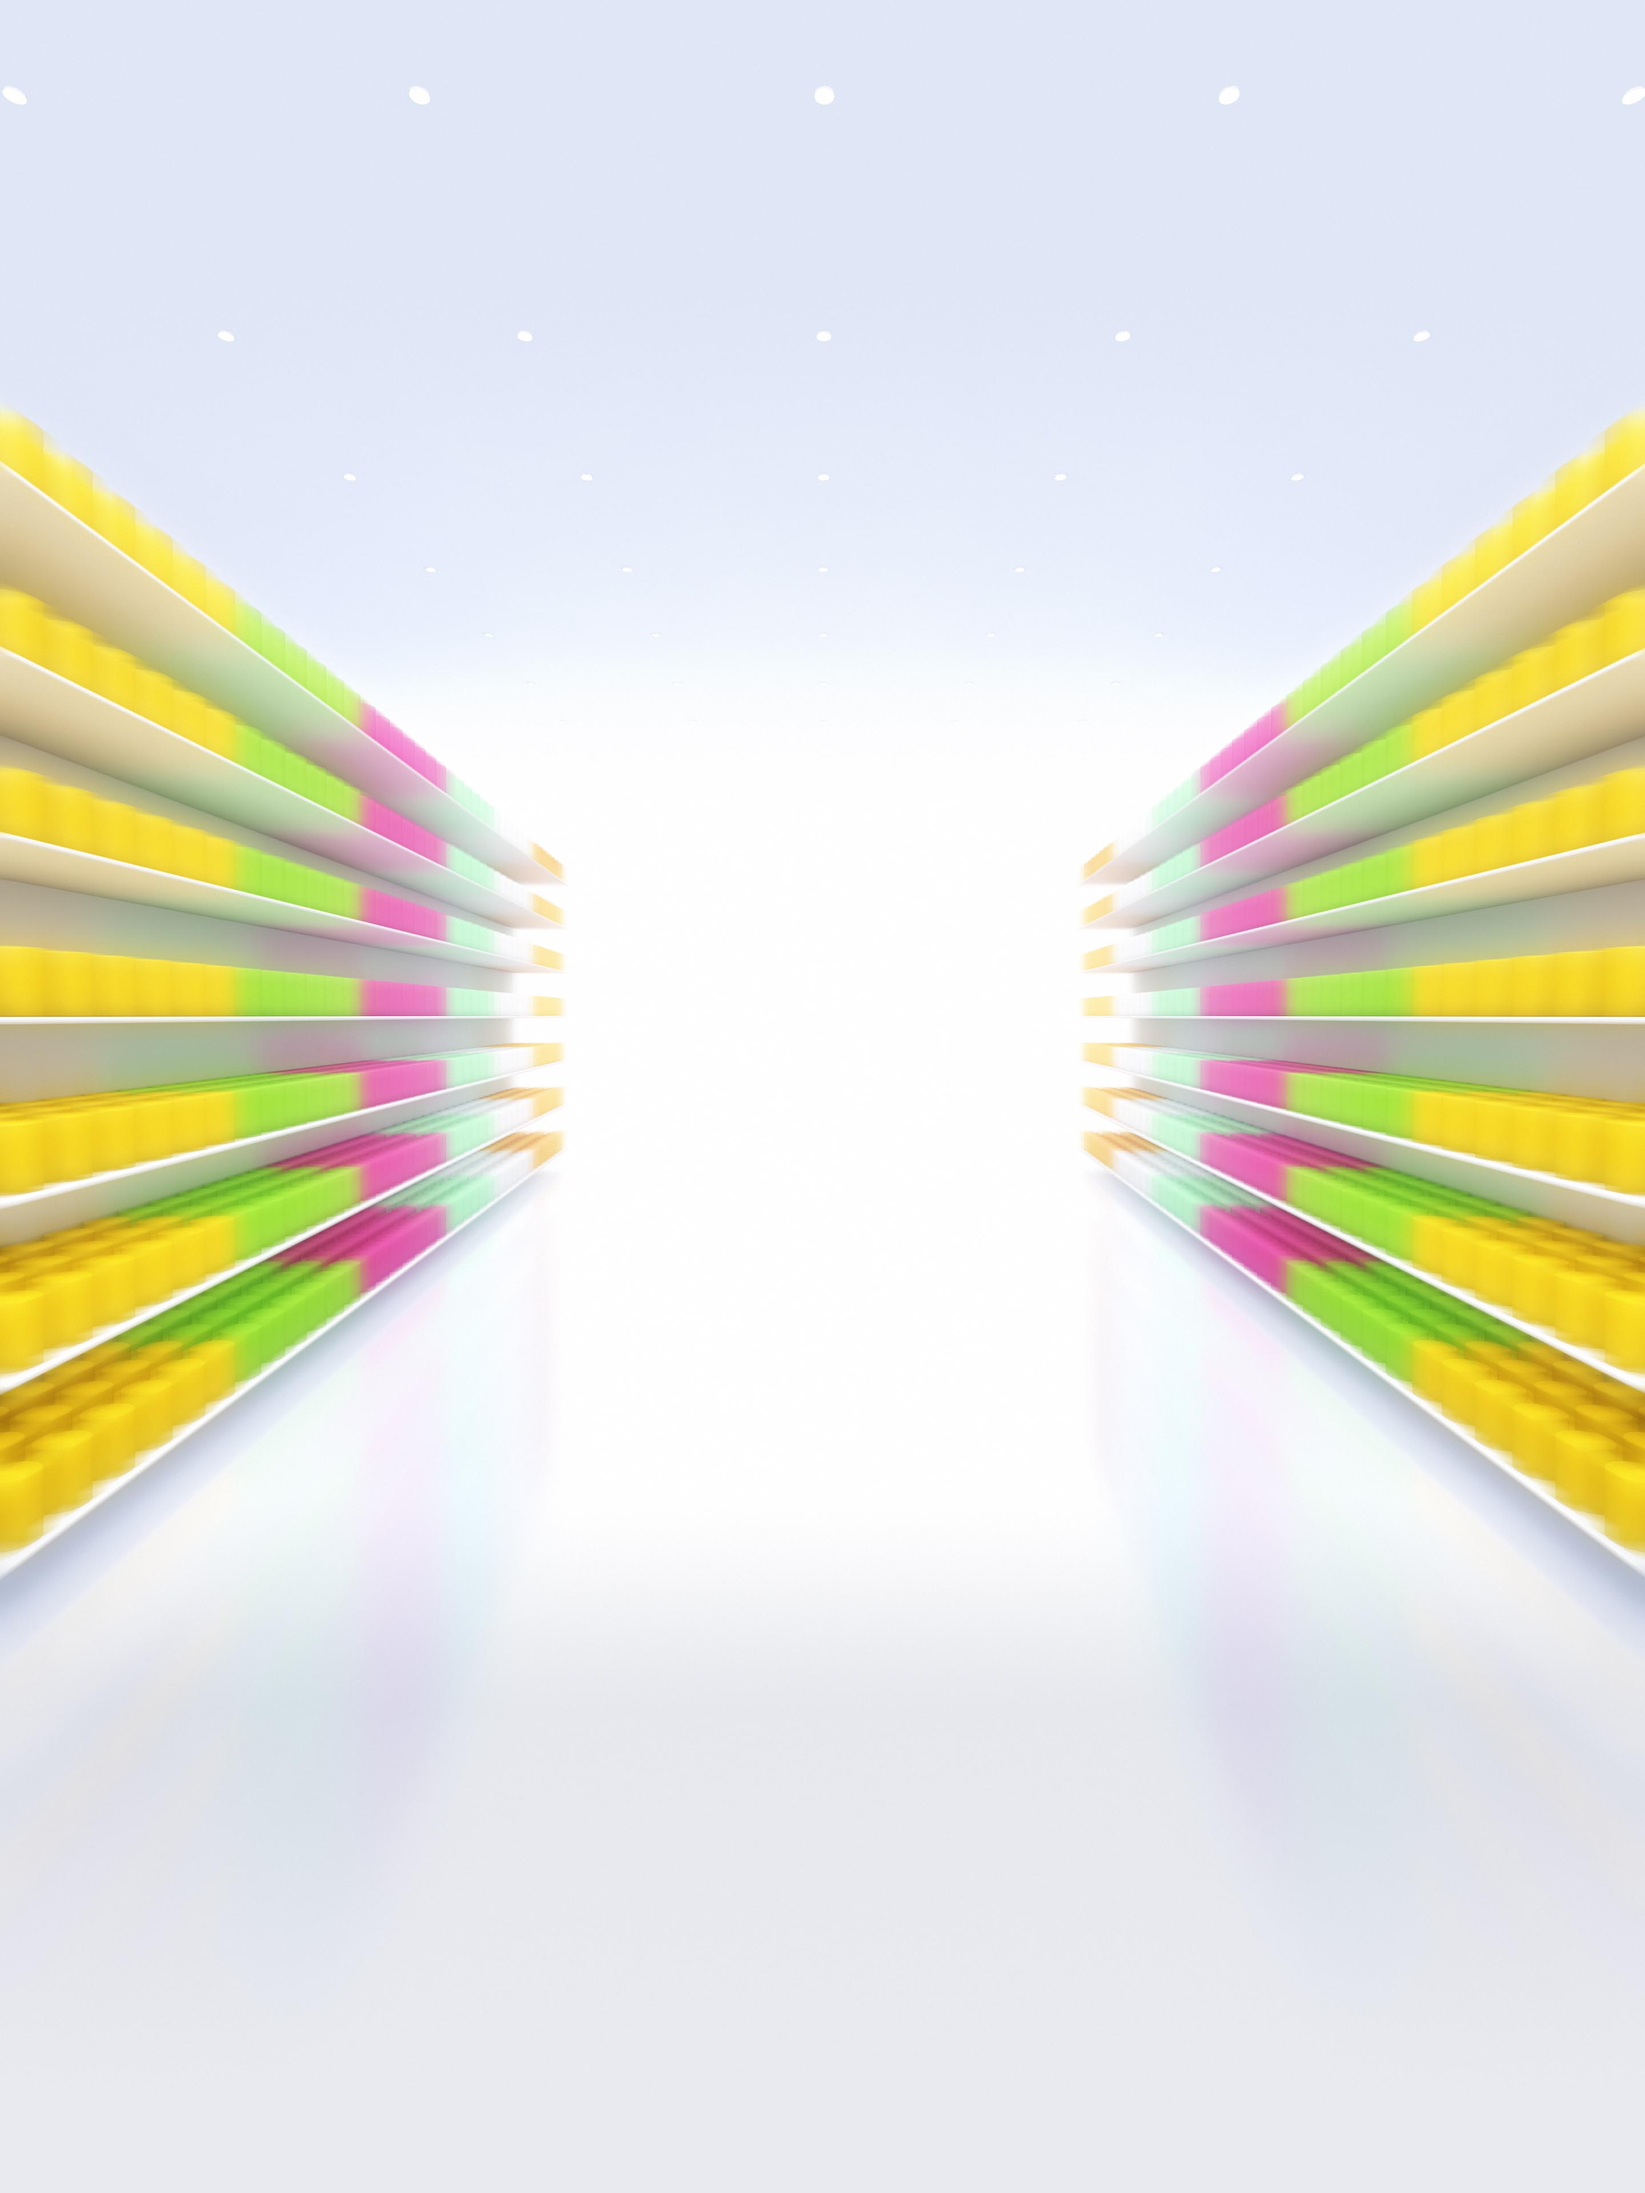
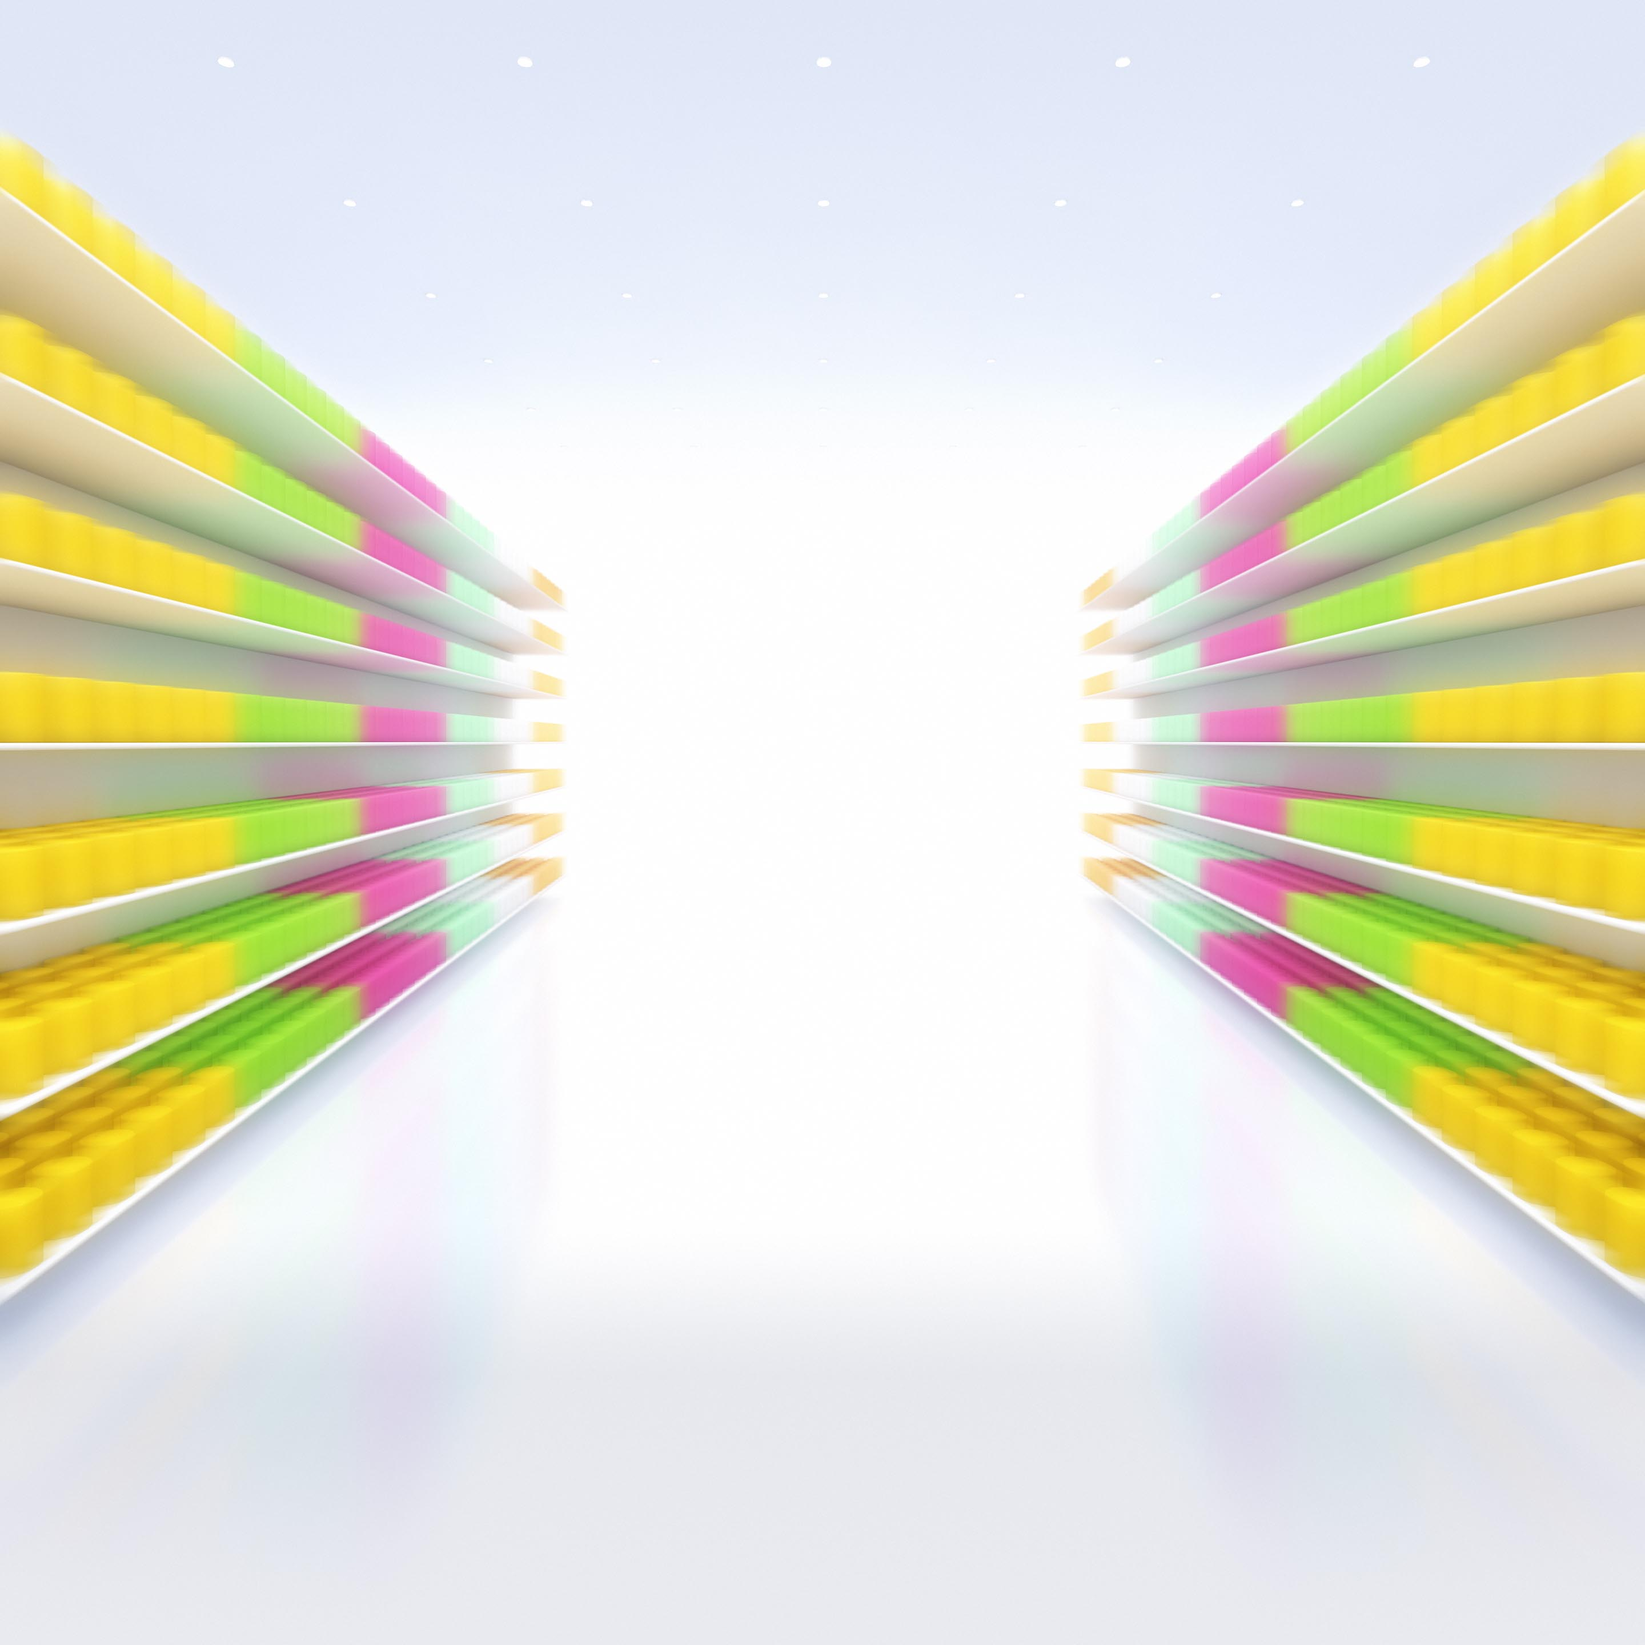
Tweak background size

Changed region(s): [[0.6562, 0.0625, 1.0, 0.8125], [0.0, 0.0625, 0.3438, 0.8125]]

diff --git a/styles.css b/styles.css
@@ -10,7 +10,7 @@
   .hero {
     background: url('gfx/header.jpg') no-repeat center center;
     background-size: cover;
-    background-position-y: -400px;
+    background-position-y: -350px;
     background-color: #E9EAF0;
     min-height: 95vh;
     position: relative;
@@ -86,7 +86,7 @@
     padding: 32px;
     margin: 12px;
     max-width: 312px;
-    min-height: 240px;
+    min-height: 220px;
     display: inline-block;
     vertical-align: top;
     text-align: left;
